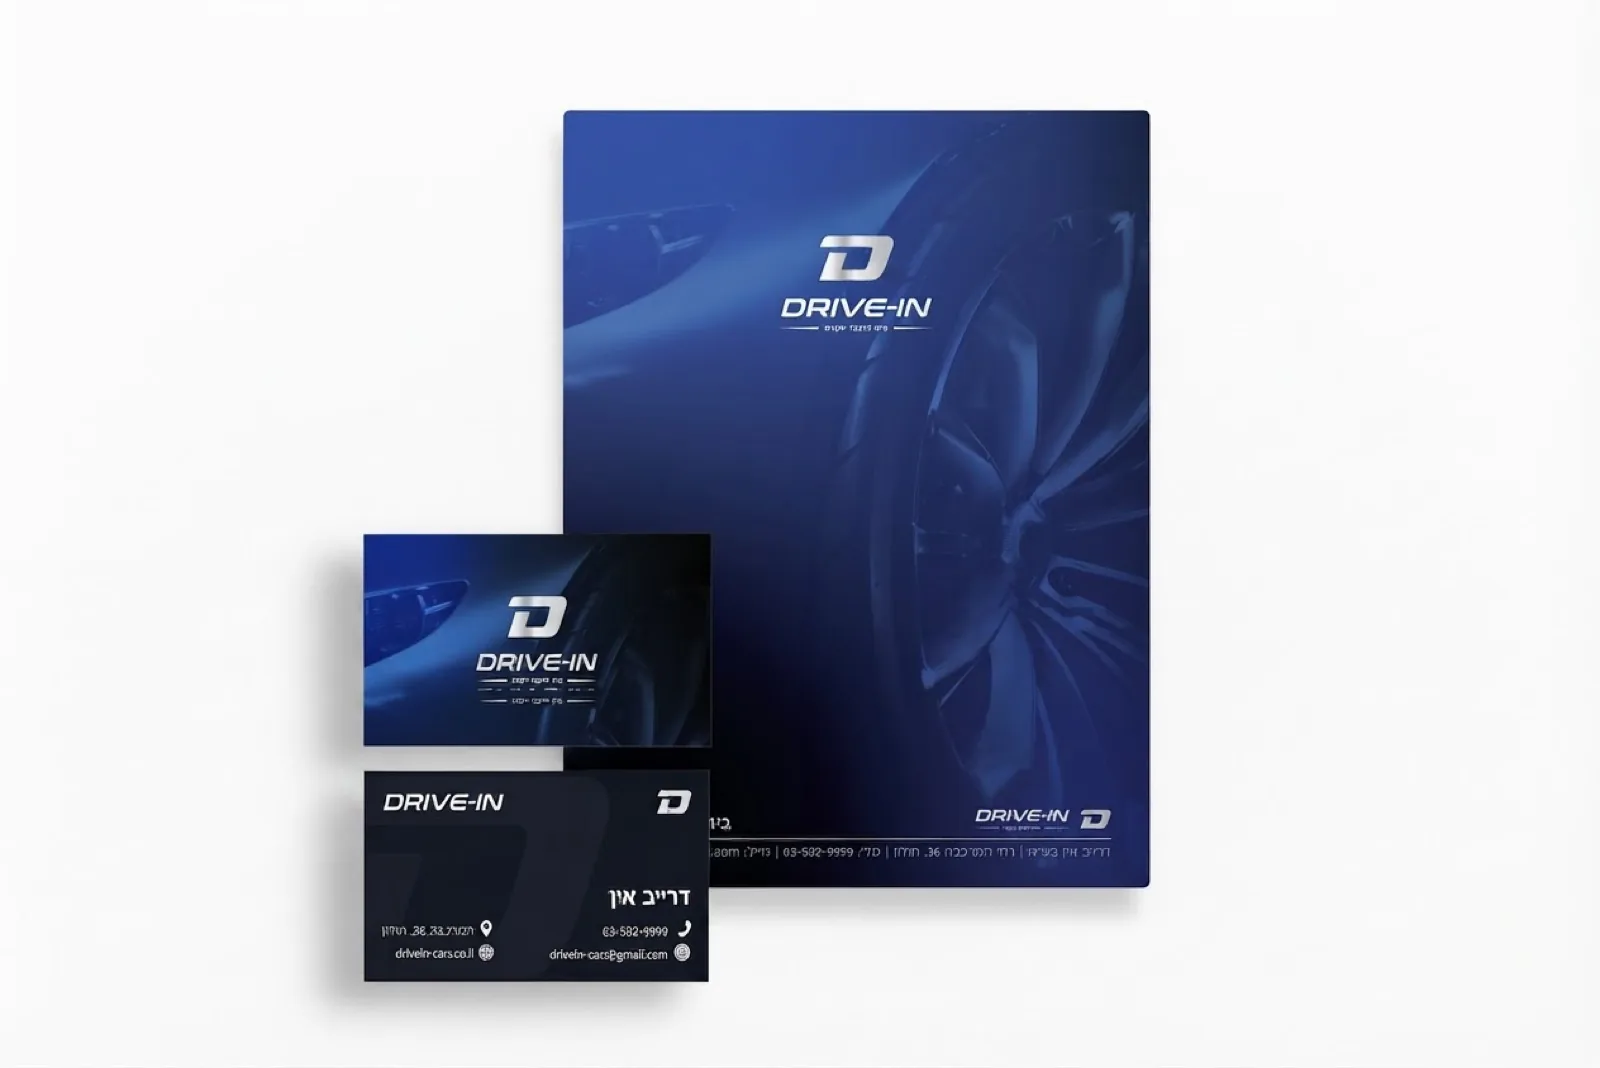
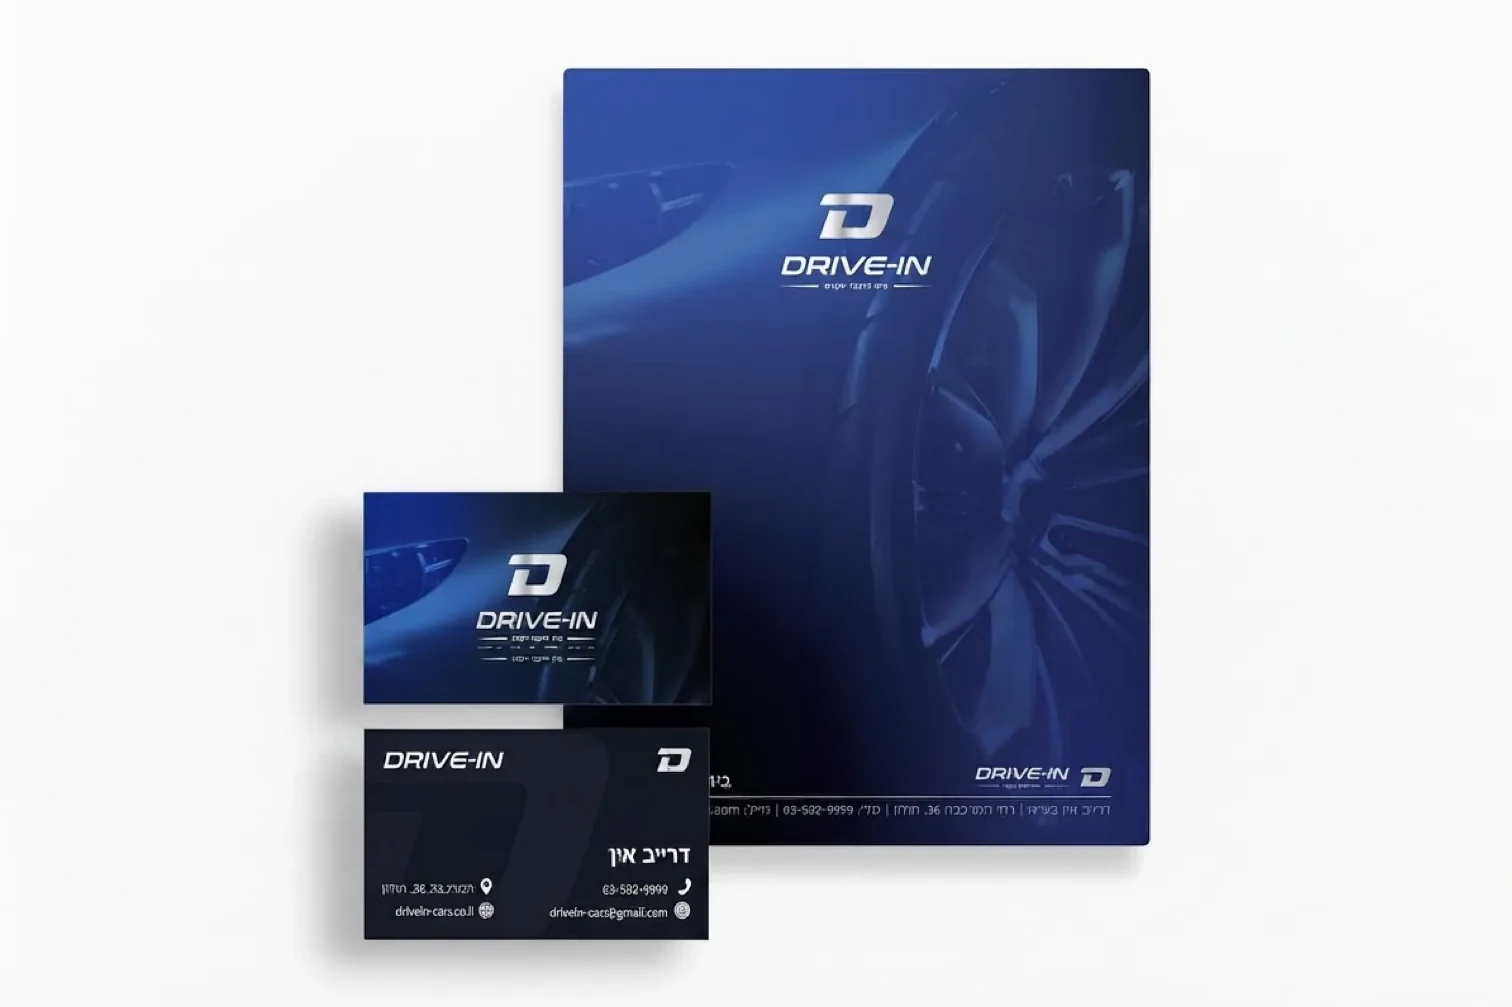
Centre the drive-in stationery in its tile
The artwork sat low and to the left inside its own canvas - 363 of margin on
one side against 450 on the other, 111 against 86 - so no amount of centring
the file would centre what is in it. Cropped to even margins, and the phone's
tile now takes the picture's proportions rather than a trim of its own.

Changed region(s): [[0.1865, 0.0616, 0.7771, 0.9851], [0.4041, 0.2155, 0.4352, 0.2771], [0.5284, 0.5233, 0.5595, 0.5541]]

diff --git a/space/graphic-design.html b/space/graphic-design.html
@@ -574,8 +574,8 @@
     /* the devices photo is trimmed of its baked-in transparent margin, so it
        now runs edge to edge on the grid */
     .gd-sec[data-gd="4"] .gd-stage .di-devices{grid-area:1/1/2/3;aspect-ratio:1467/805;background:none;padding:0}
-    /* the source photo carries its own white margin - trim it, keep the ratio */
-    .gd-sec[data-gd="4"] .gd-stage .di-stationery{grid-area:2/1/3/3;aspect-ratio:1264/690}
+    /* the photo's own margin is even now, so the tile takes its proportions */
+    .gd-sec[data-gd="4"] .gd-stage .di-stationery{grid-area:2/1/3/3;aspect-ratio:1512/1007}
     .gd-sec[data-gd="4"] .gd-stage .di-stationery img{object-fit:cover}
     .gd-sec[data-gd="4"] .gd-stage .di-grid{grid-area:3/1/4/2;aspect-ratio:1}
     .gd-sec[data-gd="4"] .gd-stage .di-colors{grid-area:3/2/4/3;background:#fff;padding:10px}
